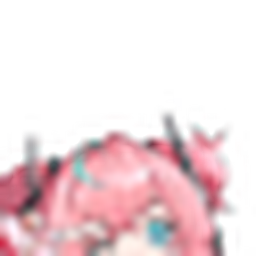
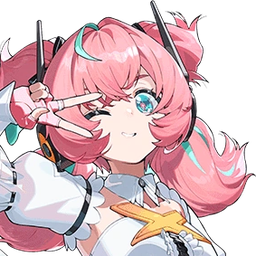
Set transparent lineup alignment as default automatic pipeline and upgrade 11 characters to high-res headshots

diff --git a/tools/character_asset_pipeline/crop_character_icons.py b/tools/character_asset_pipeline/crop_character_icons.py
@@ -342,6 +342,114 @@ def fetch_official_avatar_wiki(
     return None
 
 
+def align_gb_to_highres(
+    gb_bytes: bytes,
+    hr_bytes: bytes,
+    min_size: int = 250,
+    max_size: int = 1200,
+    min_score_threshold: float = 0.80,
+) -> Tuple[Optional[Image.Image], float]:
+    """
+    Reverse-engineers the exact headshot crop from a low-resolution GameBanana category thumbnail
+    by performing multi-scale normalized cross-correlation against the high-resolution master art.
+    Returns (256x256 Image, score) if correlation >= min_score_threshold, else (None, score).
+    """
+    try:
+        import cv2
+        import numpy as np
+
+        gb_rgba = cv2.imdecode(np.frombuffer(gb_bytes, np.uint8), cv2.IMREAD_UNCHANGED)
+        hr_rgba = cv2.imdecode(np.frombuffer(hr_bytes, np.uint8), cv2.IMREAD_UNCHANGED)
+
+        if gb_rgba is None or hr_rgba is None:
+            return None, 0.0
+
+        hr_h, hr_w = hr_rgba.shape[:2]
+        upper_h = int(hr_h * 0.65)
+        hr_upper = hr_rgba[0:upper_h, :]
+
+        gb_bgr = gb_rgba[:, :, :3]
+        gb_a = gb_rgba[:, :, 3] if gb_rgba.shape[2] == 4 else np.full(gb_rgba.shape[:2], 255, dtype=np.uint8)
+        hr_bgr = hr_upper[:, :, :3]
+        hr_a = hr_upper[:, :, 3] if hr_upper.shape[2] == 4 else np.full(hr_upper.shape[:2], 255, dtype=np.uint8)
+
+        mask = (gb_a > 30).astype(np.uint8) * 255
+        sh, sw = hr_upper.shape[:2]
+
+        best_score = -1.0
+        best_crop = None
+
+        # Coarse sweep
+        for crop_size in range(min_size, min(max_size, min(sh, sw)), 10):
+            scale = 40.0 / crop_size
+            new_w = int(round(sw * scale))
+            new_h = int(round(sh * scale))
+            if new_w < 40 or new_h < 40:
+                continue
+            scaled_bgr = cv2.resize(hr_bgr, (new_w, new_h), interpolation=cv2.INTER_AREA)
+            scaled_a = cv2.resize(hr_a, (new_w, new_h), interpolation=cv2.INTER_AREA)
+
+            res_bgr = cv2.matchTemplate(scaled_bgr, gb_bgr, cv2.TM_CCORR_NORMED, mask=mask)
+            res_a = cv2.matchTemplate(scaled_a, gb_a, cv2.TM_CCORR_NORMED)
+
+            res_bgr = np.nan_to_num(res_bgr, nan=0.0, posinf=0.0, neginf=0.0)
+            res_a = np.nan_to_num(res_a, nan=0.0, posinf=0.0, neginf=0.0)
+
+            res_total = 0.6 * res_bgr + 0.4 * res_a
+            min_val, max_val, min_loc, max_loc = cv2.minMaxLoc(res_total)
+
+            if max_val > best_score:
+                best_score = max_val
+                orig_x = int(round(max_loc[0] / scale))
+                orig_y = int(round(max_loc[1] / scale))
+                best_crop = (orig_x, orig_y, crop_size)
+
+        if best_crop is None or best_score < min_score_threshold:
+            return None, best_score
+
+        # Fine sweep (step 1px)
+        bx, by, bs = best_crop
+        for crop_size in range(max(min_size, bs - 15), min(max_size, bs + 16), 1):
+            scale = 40.0 / crop_size
+            new_w = int(round(sw * scale))
+            new_h = int(round(sh * scale))
+            if new_w < 40 or new_h < 40:
+                continue
+            scaled_bgr = cv2.resize(hr_bgr, (new_w, new_h), interpolation=cv2.INTER_AREA)
+            scaled_a = cv2.resize(hr_a, (new_w, new_h), interpolation=cv2.INTER_AREA)
+
+            res_bgr = cv2.matchTemplate(scaled_bgr, gb_bgr, cv2.TM_CCORR_NORMED, mask=mask)
+            res_a = cv2.matchTemplate(scaled_a, gb_a, cv2.TM_CCORR_NORMED)
+
+            res_bgr = np.nan_to_num(res_bgr, nan=0.0, posinf=0.0, neginf=0.0)
+            res_a = np.nan_to_num(res_a, nan=0.0, posinf=0.0, neginf=0.0)
+
+            res_total = 0.6 * res_bgr + 0.4 * res_a
+            min_val, max_val, min_loc, max_loc = cv2.minMaxLoc(res_total)
+
+            if max_val > best_score:
+                best_score = max_val
+                orig_x = int(round(max_loc[0] / scale))
+                orig_y = int(round(max_loc[1] / scale))
+                best_crop = (orig_x, orig_y, crop_size)
+
+        pil_hr = Image.open(BytesIO(hr_bytes)).convert("RGBA")
+        x, y, s = best_crop
+
+        x1 = max(0, x)
+        y1 = max(0, y)
+        x2 = min(pil_hr.width, x + s)
+        y2 = min(pil_hr.height, y + s)
+
+        canvas = Image.new("RGBA", (s, s), (0, 0, 0, 0))
+        canvas.paste(pil_hr.crop((x1, y1, x2, y2)), (x1 - x, y1 - y))
+
+        out_256 = canvas.resize((256, 256), Image.Resampling.LANCZOS)
+        return out_256, best_score
+    except Exception:
+        return None, 0.0
+
+
 def fetch_image_and_process(
     cat: CategoryProbeRecord,
     game_name: str,
@@ -349,19 +457,29 @@ def fetch_image_and_process(
 ) -> Optional[Tuple[bytes, str]]:
     """
     Progressive quality fetch:
-    Tier 3: Official wiki avatar
-    Tier 2: Mod showcase render cropped
+    Tier 3: Official wiki avatar reverse-aligned with GameBanana headshot framing
+    Tier 2: Official wiki portrait cropped with face detection
     Tier 1: GameBanana category thumbnail
     """
     s = session or requests.Session()
 
-    # Tier 3 check
+    # Tier 3 & 2: Official wiki fetch
     wiki_result = fetch_official_avatar_wiki(game_name, cat.name, s)
     if wiki_result:
         img_bytes, quality = wiki_result
         try:
+            # Automatic default: transparent lineup against GameBanana headshot
+            if cat.icon_url:
+                gb_resp = s.get(cat.icon_url, timeout=10)
+                if gb_resp.status_code == 200 and len(gb_resp.content) > 100:
+                    aligned_img, score = align_gb_to_highres(gb_resp.content, img_bytes)
+                    if aligned_img is not None and score >= 0.80:
+                        out_buf = BytesIO()
+                        aligned_img.save(out_buf, format="PNG")
+                        return (out_buf.getvalue(), "aligned_headshot")
+
+            # Fallback within wiki art: face detection or resize
             pil_img = Image.open(BytesIO(img_bytes)).convert("RGBA")
-            # If wiki returned vertical portrait art or non-square render, perform headshot crop
             w, h = pil_img.size
             if abs(w - h) > 20 or h > 300:
                 face_box = detect_face_in_image(pil_img)
